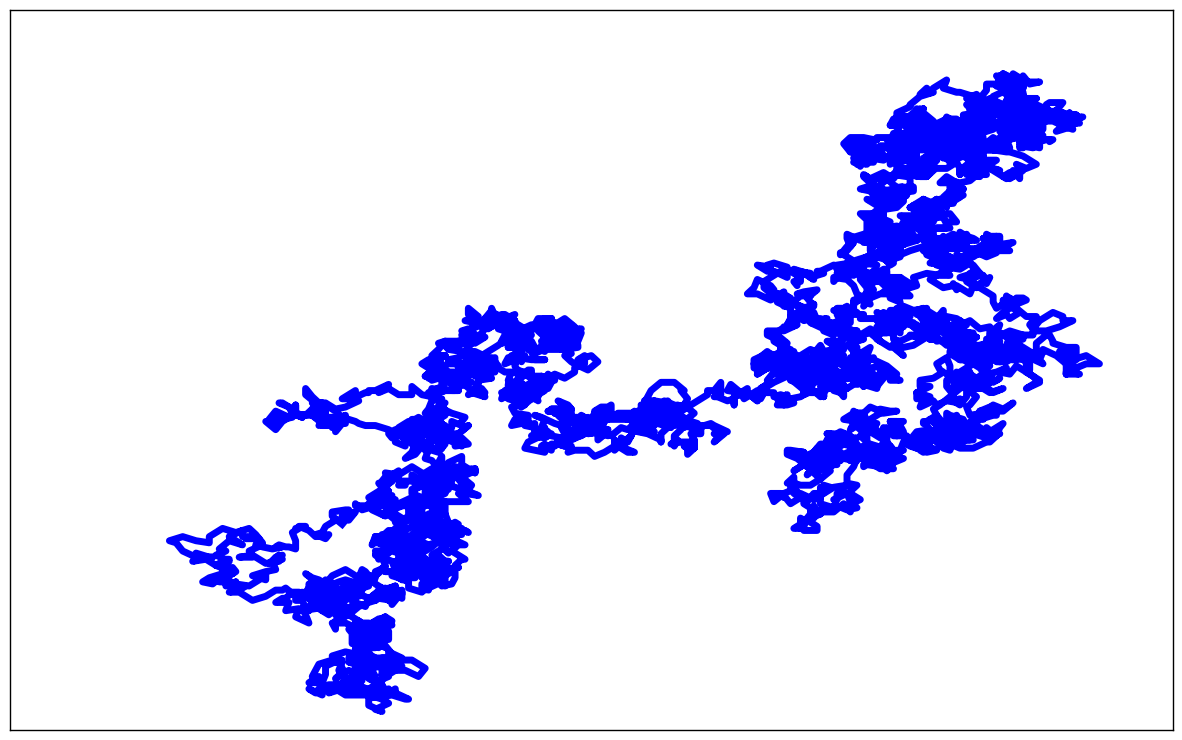
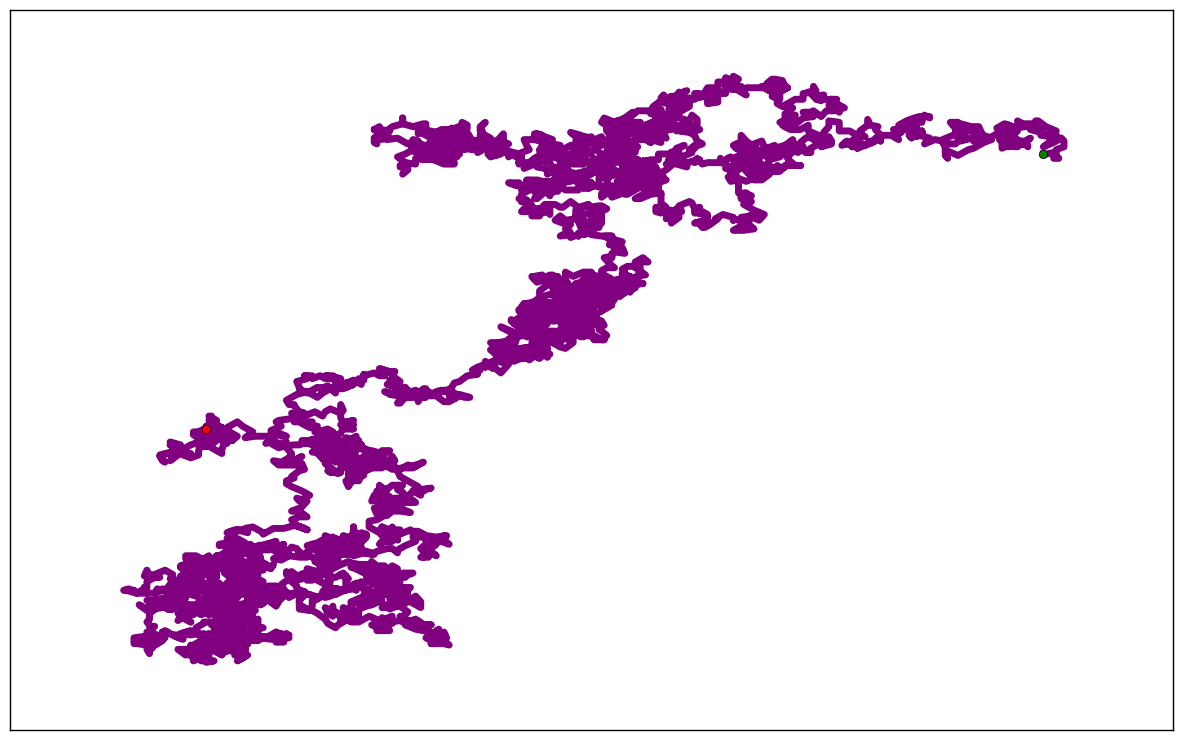
updates to data viz project

Changed region(s): [[0.0914, 0.0932, 0.9442, 0.9635]]

diff --git a/chp15/random_walks/mod_random_walk.py b/chp15/random_walks/mod_random_walk.py
@@ -1,0 +1,43 @@
+# Modify values in x and y lists to see what happens to the overall shape of your walks.
+# Try a longer list of choices for the distance, such as 0 through 8, or remove the -1
+# from the x or y direction list.
+
+from random import choice
+
+class Randomwalk:
+	"""A class to generate random walks"""
+
+	def __init__(self, num_points=5000):
+		"""Initialize attributes of a walk."""
+		self.num_points = num_points
+
+
+	# All walks start at (0, 0)
+		self.x_values = [0]
+		self.y_values = [0]
+
+	def fill_walk(self):
+		"""Calculate all the points in the walk."""
+
+		# Keep taking steps until the walk reaches the desired length.
+		while len(self.x_values) < self.num_points:
+
+			# Decide which direction to go and how far to go in that direction.
+			x_direction = choice([1,-1])
+			x_distance = choice([0, 1, 2, 3, 4, 5, 6, 7, 8])
+			x_step = x_direction * x_distance
+
+			y_direction = choice([1,-1])
+			y_distance = choice([0, 1, 2, 3, 4, 5, 6, 7, 8])
+			y_step = y_direction * y_distance
+
+			# Reject moves that go nowhere.
+			if x_step == 0 and y_step == 0:
+				continue
+
+			# Calculate the new postion.
+			x = self.x_values[-1] + x_step
+			y = self.y_values[-1] + y_step
+
+			self.x_values.append(x)
+			self.y_values.append(y)

diff --git a/chp15/random_walks/molecular_motion.py b/chp15/random_walks/molecular_motion.py
@@ -5,7 +5,7 @@
 
 import matplotlib.pyplot as plt
 
-from random_walk import Randomwalk
+from mod_random_walk import Randomwalk
 
 while True:
 	# Make a random walk.
@@ -16,17 +16,17 @@ while True:
 	plt.style.use('classic')
 	fig, ax = plt.subplots(figsize=(15,9))
 	point_numbers = range(rw.num_points)
-	ax.plot(rw.x_values, rw.y_values, linewidth=5)
+	ax.plot(rw.x_values, rw.y_values,c='purple',linewidth=5)
 
 	# Emphasize the first and last points.
-	# ax.plot(0, 0, c='green')
-	# ax.plot(rw.x_values[-1], rw.y_values[-1], c='red')
+	ax.plot(0, 0,marker='o', c='green')
+	ax.plot(rw.x_values[-1], rw.y_values[-1],marker='o',c='red')
 
 	# Remove the axes.
 	ax.get_xaxis().set_visible(False)
 	ax.get_yaxis().set_visible(False)
 
-	plt.savefig('molecular_motion.png', bbox_inches='tight')
+	plt.savefig('molecular_motion_mod_rw.png', bbox_inches='tight')
 	plt.show()
 
 	keep_running = input("Make another walk? (y/n): ")

diff --git a/chp15/random_walks/rw_visual.py b/chp15/random_walks/rw_visual.py
@@ -1,6 +1,6 @@
 import matplotlib.pyplot as plt
 
-from random_walk import Randomwalk
+from mod_random_walk import Randomwalk
 
 while True:
 	# Make a random walk.
@@ -21,7 +21,7 @@ while True:
 	ax.get_xaxis().set_visible(False)
 	ax.get_yaxis().set_visible(False)
 
-	plt.savefig('random_walk_Blues_colormap_start_end_noaxis_50_000_screensize.png', bbox_inches='tight')
+	plt.savefig('random_walk_Blues_colormap_mod_ran_walk.png', bbox_inches='tight')
 	plt.show()
 
 	keep_running = input("Make another walk? (y/n): ")
